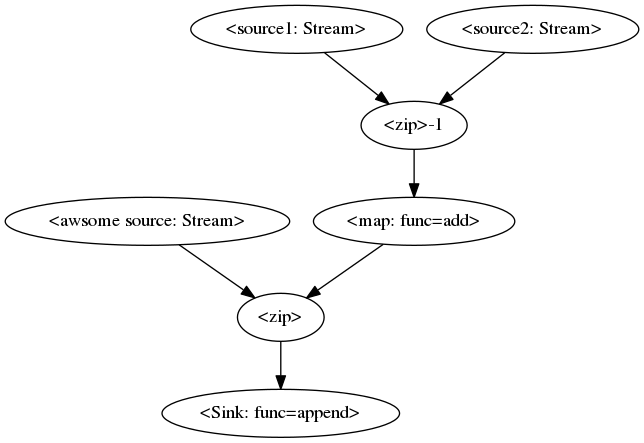
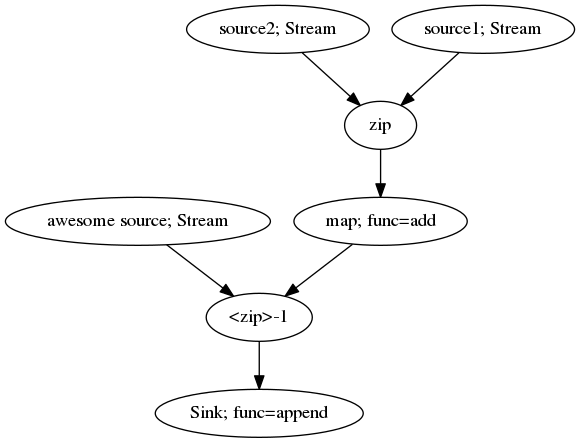
ENH: match dask's API ish and use graphviz

diff --git a/streams/graph.py b/streams/graph.py
@@ -1,5 +1,9 @@
 """Graphing utilities for EventStreams"""
 import networkx as nx
+import graphviz
+import os
+
+from dask.dot import _get_display_cls
 
 
 def create_graph(node, graph, prior_node=None, pc=None):
@@ -30,17 +34,13 @@ def create_graph(node, graph, prior_node=None, pc=None):
                 create_graph(node2, graph, node, pc=pc)
 
 
-def visualize(node, filename='mystream.png'):
-    """Render the computation of this object's task graph using graphviz.
-
-    Requires ``graphviz`` to be installed.
+def readable_graph(node):
+    """Create human readable version of this object's task graph.
 
     Parameters
     ----------
     node: Stream instance
         A node in the task graph
-    filename : str, optional
-        The name of the file to write to disk.
     """
 
     g = nx.DiGraph()
@@ -56,7 +56,81 @@ def visualize(node, filename='mystream.png'):
 
     gg = {k: v for k, v in mapping.items()}
     rg = nx.relabel_nodes(g, gg, copy=True)
-    a = nx.nx_agraph.to_agraph(rg)
-    a.layout('dot')
-    extension = os.path.splitext(filename)[1]
-    a.draw(filename, format=extension)
+    return rg
+
+
+def to_graphviz(graph):
+    gvz = graphviz.Digraph()
+    for node in graph.nodes():
+        gvz.node(node)
+    gvz.edges(graph.edges())
+    return gvz
+
+
+def visualize(node, filename='mystream', format=None):
+    """
+    Render a task graph using dot.
+
+    If `filename` is not None, write a file to disk with that name in the
+    format specified by `format`.  `filename` should not include an extension.
+
+    Parameters
+    ----------
+    dsk : dict
+        The graph to display.
+    filename : str or None, optional
+        The name (without an extension) of the file to write to disk.  If
+        `filename` is None, no file will be written, and we communicate with
+        dot using only pipes.  Default is 'mydask'.
+    format : {'png', 'pdf', 'dot', 'svg', 'jpeg', 'jpg'}, optional
+        Format in which to write output file.  Default is 'png'.
+
+    Returns
+    -------
+    result : None or IPython.display.Image or IPython.display.SVG  (See below.)
+
+    Notes
+    -----
+    If IPython is installed, we return an IPython.display object in the
+    requested format.  If IPython is not installed, we just return None.
+
+    We always return None if format is 'pdf' or 'dot', because IPython can't
+    display these formats natively. Passing these formats with filename=None
+    will not produce any useful output.
+
+    See Also
+    --------
+    streams.graph.readable_graph
+    """
+    rg = readable_graph(node)
+    g = to_graphviz(rg)
+
+    fmts = ['.png', '.pdf', '.dot', '.svg', '.jpeg', '.jpg']
+    if filename is None:
+        format = 'png'
+
+    if format is None and any(filename.lower().endswith(fmt) for fmt in fmts):
+        filename, format = os.path.splitext(filename)
+        format = format[1:].lower()
+
+    if format is None:
+        format = 'png'
+
+    data = g.pipe(format=format)
+    if not data:
+        raise RuntimeError("Graphviz failed to properly produce an image. "
+                           "This probably means your installation of graphviz "
+                           "is missing png support. See: "
+                           "https://github.com/ContinuumIO/anaconda-issues/"
+                           "issues/485 for more information.")
+
+    display_cls = _get_display_cls(format)
+
+    if not filename:
+        return display_cls(data=data)
+
+    full_filename = '.'.join([filename, format])
+    with open(full_filename, 'wb') as f:
+        f.write(data)
+
+    return display_cls(filename=full_filename)

diff --git a/streams/core.py b/streams/core.py
@@ -67,7 +67,7 @@ class Stream(object):
     def __str__(self):
         s_list = []
         if self.name:
-            s_list.append('{}: {}'.format(self.name, self.__class__.__name__))
+            s_list.append('{}; {}'.format(self.name, self.__class__.__name__))
         else:
             s_list.append(self.__class__.__name__)
 
@@ -85,7 +85,7 @@ class Stream(object):
                     s = None
             if s:
                 s_list.append('{}={}'.format(m, s))
-        s = ": ".join(s_list)
+        s = "; ".join(s_list)
         s = "<" + s + ">"
         return s
 

diff --git a/examples/plot_graph.py b/examples/plot_graph.py
@@ -1,15 +1,13 @@
 from streams import Stream
 from operator import add
 
-from streams.graph import visualize
-
 source1 = Stream(name='source1')
 source2 = Stream(name='source2')
-source3 = Stream(name='awsome source')
+source3 = Stream(name='awesome source')
 
 n1 = source1.zip(source2)
 n2 = n1.map(add)
 n3 = n2.zip(source3)
 L = n3.sink_to_list()
 
-visualize(n2)
+n2.visualize()
